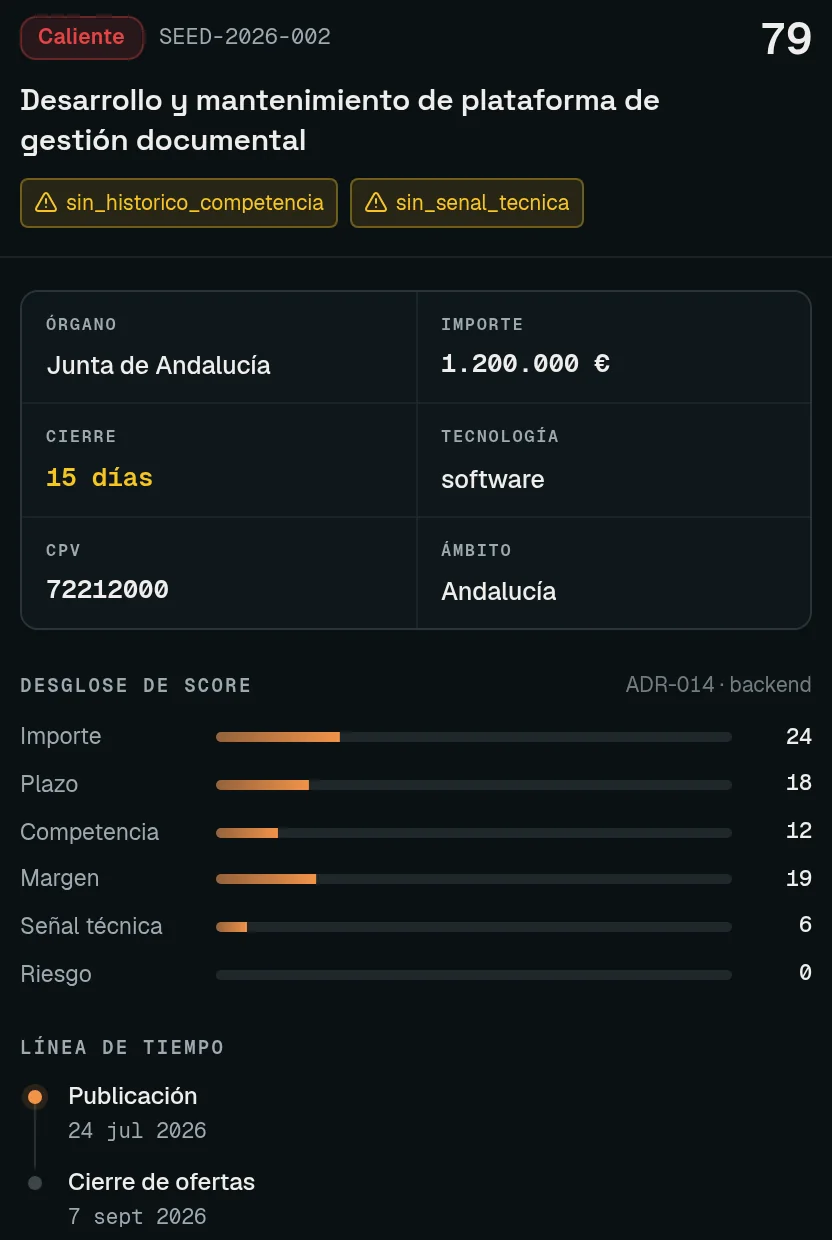
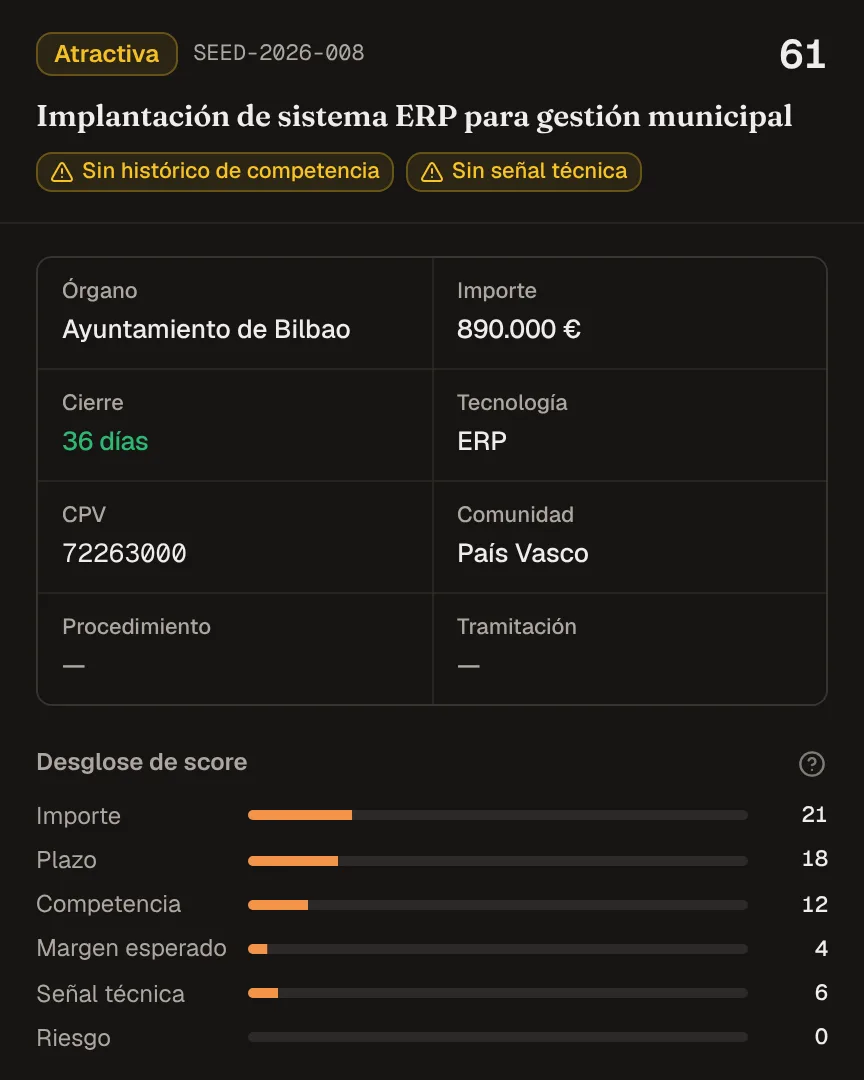
feat(portada): capturas del producto en claro y oscuro, regeneradas
- CapturaProducto sirve las variantes -claro por prefers-color-scheme; la
  portada no tiene selector de tema y sigue al sistema.
- Las cuatro capturas se regeneraron con el producto actual: las publicadas
  eran de una interfaz anterior (identificadores en crudo, «ADR-014 · backend»).
- capturas-landing.spec.ts: selecciona la fila por su celda de selección (el
  clic en el título ya no abre el inspector), recorta el inspector del Radar
  («Desglose de score» ya no vive en /detalle) y captura a densidad 2.
- api.d.ts regenerado por el docstring de /publico/cobertura.
- Cierra: La portada sirve una captura oscura a quien tiene el sistema en claro.

diff --git a/web/e2e/capturas-landing.spec.ts b/web/e2e/capturas-landing.spec.ts
@@ -40,23 +40,26 @@ import { SEED_LICITACION } from "./fixtures";
  * un visitante.
  *
  * Se capturan los dos recortes en **los dos temas**: `radar-hero.webp` y
- * `radar-hero-movil.webp` (oscuro, los que la portada importa hoy) y sus
- * variantes `-claro` (`radar-hero-claro.webp`, `radar-hero-movil-claro.webp`).
- * La portada las servirá con un `<source media="(prefers-color-scheme: dark)">`
- * para que quien tiene el sistema en claro no vea una consola oscura; el
- * `<picture>` de `CapturaProducto` se cambia en el mismo commit que añade los
- * `.webp` claros, porque un import a un fichero que no existe rompe el build.
+ * `radar-hero-movil.webp` (oscuro) y sus variantes `-claro`
+ * (`radar-hero-claro.webp`, `radar-hero-movil-claro.webp`).
+ * `CapturaProducto` las sirve con `<source media="(prefers-color-scheme: dark)">`
+ * para que quien tiene el sistema en claro no vea una consola oscura. Importa
+ * los cuatro ficheros: borrar uno rompe el build.
  *
  * El recorte estrecho no es la misma imagen reducida: una consola de escritorio
- * a 375 px deja el texto de la tabla por debajo de 2 px. Se captura el panel de
- * detalle, que es estrecho por naturaleza y cuenta la misma historia.
+ * a 375 px deja el texto de la tabla por debajo de 2 px. Se captura el cuerpo
+ * del inspector del Radar (score, banda y desglose), que es estrecho por
+ * naturaleza y cuenta la misma historia. Hasta el 2026-11-16 se tomaba de
+ * `/detalle` a 375 px esperando «Desglose de score», que ya no vive allí.
+ *
+ * Con `next dev` la captura saca la insignia de desarrollo de Next: se toma
+ * contra `npm run build && npm run start`.
  */
 
 const DESTINO = path.resolve(__dirname, "..", "src", "app", "(publico)", "_assets");
 
-/** Mismos anchos que `responsive.spec.ts`, para no inventar un tercer juego. */
+/** Mismo ancho que `responsive.spec.ts`, para no inventar otro. */
 const ESCRITORIO = { width: 1440, height: 900 };
-const MOVIL = { width: 375, height: 812 };
 
 /** Calidad alta pero con pérdida: son capturas de interfaz, no fotografía, y
  *  el peso viaja en el LCP de la portada. Los ficheros anteriores rondaban los
@@ -89,9 +92,29 @@ async function guardarWebp(png: Buffer, nombre: string): Promise<void> {
   await writeFile(path.join(DESTINO, nombre), webp);
 }
 
+/**
+ * Radar con el expediente del seed seleccionado y su inspector abierto.
+ *
+ * Se selecciona como en `responsive.spec.ts`: por la celda de selección de su
+ * fila (`[data-active]` solo lo emite `radar-fila.tsx`), no con un clic en el
+ * título, que no abre el inspector. Antes se cierra la franja de primer uso
+ * del ámbito, que no forma parte de lo que la portada enseña.
+ */
+async function abrirInspector(page: import("@playwright/test").Page): Promise<void> {
+  await page.goto("/radar");
+  await page.getByRole("button", { name: "Entendido, no volver a mostrar" }).click();
+  const fila = page.locator("[data-active]").filter({ hasText: SEED_LICITACION.tituloRadar }).first();
+  await fila.waitFor({ timeout: 20_000 });
+  await fila.locator('[data-slot="radar-fila-seleccion"]').click();
+  await page.getByText("Desglose de score").waitFor();
+}
+
 test.describe("Capturas de la landing", () => {
   test.skip(!process.env.CAPTURAS, "Herramienta, no test: se ejecuta con CAPTURAS=1");
   test.skip(({ browserName }) => browserName !== "chromium", "Una sola familia de capturas");
+  // La imagen ocupa hasta 1104 px CSS en la portada: a 1x se vería borrosa en
+  // una pantalla de densidad 2. `next/image` sirve después el ancho que toque.
+  test.use({ deviceScaleFactor: 2 });
 
   for (const tema of ["dark", "light"] as const) {
     const sufijo = tema === "light" ? "-claro" : "";
@@ -99,26 +122,31 @@ test.describe("Capturas de la landing", () => {
     test(`bandeja del Radar (${tema})`, async ({ page }) => {
       await page.emulateMedia({ colorScheme: tema });
       await page.setViewportSize(ESCRITORIO);
-      await page.goto("/radar");
-
-      // La fila del expediente con histórico: sin ella la bandeja podría estar
-      // aún cargando y la captura saldría con esqueletos.
-      await page.getByText(SEED_LICITACION.tituloRadar).first().waitFor();
-      // Abrir su panel de detalle, que es la mitad derecha de la composición.
-      await page.getByText(SEED_LICITACION.tituloRadar).first().click();
-      await page.getByText("Desglose de score").waitFor();
+      await abrirInspector(page);
 
       const png = await page.screenshot({ animations: "disabled" });
       await guardarWebp(png, `radar-hero${sufijo}.webp`);
     });
 
-    test(`recorte estrecho del detalle (${tema})`, async ({ page }) => {
+    test(`recorte estrecho del inspector (${tema})`, async ({ page }) => {
       await page.emulateMedia({ colorScheme: tema });
-      await page.setViewportSize(MOVIL);
-      await page.goto(`/detalle?lic=${SEED_LICITACION.radarId}`);
-      await page.getByText("Desglose de score").waitFor();
+      await page.setViewportSize(ESCRITORIO);
+      await abrirInspector(page);
 
-      const png = await page.screenshot({ animations: "disabled" });
+      // El inspector desde su cabecera (score, banda y título) hasta el final
+      // del desglose. Mide 432 px de ancho, así que no hace falta reducir una
+      // pantalla de escritorio. La cabecera queda fuera de la región con
+      // scroll, por eso se recorta sobre la columna y no sobre la región.
+      const columna = await page
+        .getByRole("region", { name: "Detalle de la señal" })
+        .locator("..")
+        .boundingBox();
+      const finDesglose = await page.getByText("Línea de tiempo").boundingBox();
+      if (!columna || !finDesglose) throw new Error("No se encontró el inspector del Radar");
+      const png = await page.screenshot({
+        animations: "disabled",
+        clip: { ...columna, height: finDesglose.y - columna.y - 8 },
+      });
       await guardarWebp(png, `radar-hero-movil${sufijo}.webp`);
     });
   }

diff --git a/web/src/app/(publico)/_components/landing-captura.tsx b/web/src/app/(publico)/_components/landing-captura.tsx
@@ -1,7 +1,9 @@
 import { getImageProps } from "next/image";
 import { CONTENIDO } from "../_content/landing";
 import capturaHero from "../_assets/radar-hero.webp";
+import capturaHeroClaro from "../_assets/radar-hero-claro.webp";
 import capturaHeroMovil from "../_assets/radar-hero-movil.webp";
+import capturaHeroMovilClaro from "../_assets/radar-hero-movil-claro.webp";
 
 /* Captura del producto, con art direction.
 
@@ -18,31 +20,55 @@ import capturaHeroMovil from "../_assets/radar-hero-movil.webp";
 
    Ya **no** lleva `priority`: desde que el hero enseña dato y no una foto, el
    LCP es texto y esta imagen está por debajo del fold. Marcarla como prioritaria
-   competiría con lo que sí hay que pintar primero. */
+   competiría con lo que sí hay que pintar primero.
+
+   Cada recorte va en los dos temas, elegidos por `prefers-color-scheme`, que es
+   lo que sigue la portada (`next-themes` con `defaultTheme="system"`, sin
+   selector propio): quien tiene el sistema en claro ya no ve una consola
+   oscura. shortcut: quien eligió tema a mano en la consola ve la portada en ese
+   tema y la captura en el de su sistema; pasarlo a la clase `dark` si la
+   portada llega a tener selector de tema. Las capturas las regenera
+   `e2e/capturas-landing.spec.ts`. */
 const SIZES_ANCHA = "(min-width: 1152px) 1104px, calc(100vw - 3rem)";
 const SIZES_ESTRECHA = "calc(100vw - 3rem)";
+const OSCURO = "(prefers-color-scheme: dark)";
+const ANCHA = "(min-width: 640px)";
 
 export function CapturaProducto() {
   const comun = { alt: CONTENIDO.capturaAlt };
+  const srcSet = (src: typeof capturaHero, sizes: string) =>
+    getImageProps({ ...comun, src, sizes }).props.srcSet;
   const {
-    props: { srcSet: ancha },
-  } = getImageProps({ ...comun, src: capturaHero, sizes: SIZES_ANCHA });
-  const {
-    props: { srcSet: estrecha, ...resto },
-  } = getImageProps({ ...comun, src: capturaHeroMovil, sizes: SIZES_ESTRECHA });
+    props: { srcSet: estrechaClara, ...resto },
+  } = getImageProps({ ...comun, src: capturaHeroMovilClaro, sizes: SIZES_ESTRECHA });
 
   return (
     <picture>
       {/* `sizes` va también en el `<source>`: sin él el navegador asume 100vw y
-          se descarga la variante de 3840 px para un hueco de 1104. */}
+          se descarga la variante de 3840 px para un hueco de 1104. Gana el
+          primer `<source>` que casa, así que van de más a menos específico. */}
       <source
-        media="(min-width: 640px)"
-        srcSet={ancha}
+        media={`${ANCHA} and ${OSCURO}`}
+        srcSet={srcSet(capturaHero, SIZES_ANCHA)}
         sizes={SIZES_ANCHA}
         width={capturaHero.width}
         height={capturaHero.height}
       />
-      <img {...resto} srcSet={estrecha} alt={CONTENIDO.capturaAlt} loading="lazy" className="h-auto w-full" />
+      <source
+        media={ANCHA}
+        srcSet={srcSet(capturaHeroClaro, SIZES_ANCHA)}
+        sizes={SIZES_ANCHA}
+        width={capturaHeroClaro.width}
+        height={capturaHeroClaro.height}
+      />
+      <source
+        media={OSCURO}
+        srcSet={srcSet(capturaHeroMovil, SIZES_ESTRECHA)}
+        sizes={SIZES_ESTRECHA}
+        width={capturaHeroMovil.width}
+        height={capturaHeroMovil.height}
+      />
+      <img {...resto} srcSet={estrechaClara} alt={CONTENIDO.capturaAlt} loading="lazy" className="h-auto w-full" />
     </picture>
   );
 }

diff --git a/docs/IMPROVEMENT_BACKLOG.md b/docs/IMPROVEMENT_BACKLOG.md
@@ -371,15 +371,6 @@ _Sin ítems abiertos._
   - Search Console verá una caída grande de URLs indexadas: es el objetivo, no un incidente.
 - **Riesgo:** medio — el cambio es de datos publicados, no de código.
 
-### [P2] La portada sirve una captura oscura a quien tiene el sistema en claro
-- **Estado actual (2026-11-08):** `código` — Ejecutar `npm run capturas:landing` con el stack sembrado, commitear las dos variantes `-claro` y servirlas con `<source media="(prefers-color-scheme: dark)">` en `CapturaProducto`.
-- **Área:** web/src/app/(publico)/page.tsx, web/e2e/capturas-landing.spec.ts
-- **Problema:** la superficie pública usa `defaultTheme="system"` y no tiene selector de tema, así que un visitante con el sistema en claro ve una página clara con una captura del producto en oscuro incrustada. Las dos imágenes de `_assets/` son las únicas que hay.
-- **Cómo empezar:** el spec ya genera las variantes `-claro` (`npm run capturas:landing`, con el stack sembrado). Falta ejecutarlo, commitear `radar-hero-claro.webp` y `radar-hero-movil-claro.webp` y dar a `CapturaProducto` los `<source media="(prefers-color-scheme: dark)">` con los oscuros en el mismo cambio.
-- **Acceptance criteria:** las dos variantes existen, se sirve una sola por visita (no dos descargas), y el spec de capturas las genera juntas.
-- **Files de partida:** [web/e2e/capturas-landing.spec.ts](../web/e2e/capturas-landing.spec.ts), [web/src/app/(publico)/page.tsx](../web/src/app/%28publico%29/page.tsx)
-- **Riesgo:** bajo.
-
 ### [P2] Dar de alta el check externo del latido del healthcheck (acción del propietario)
 - **Estado actual (2026-11-08):** `propietario` — El propietario crea el check externo (periodo 6 h, gracia 2 h), guarda su URL en el secret `HEALTHCHECK_HEARTBEAT_URL` y lanza `healthcheck.yml` para ver `latido_enviado`.
 - **Área:** healthchecks.io (o equivalente), GitHub (variables cifradas de Actions), Render

diff --git a/docs/UX_AUDIT.md b/docs/UX_AUDIT.md
@@ -362,13 +362,14 @@ en las tres páginas de evidencia, enlazadas desde el cuerpo y desde el pie.
   v158 ya está aplicada en producción (la cadena es lineal, así que v98 también).
   No hay cambio de código pendiente: falta comprobar que la cifra publicada bajó
   de los 417.182 del censo PSCP.
-- **La variante clara de las capturas.** Se sirve una sola imagen, oscura, a
-  quien tiene el sistema en claro. `e2e/capturas-landing.spec.ts` ya genera
-  también `radar-hero-claro.webp` y `radar-hero-movil-claro.webp`, pero
-  necesita el stack sembrado (Postgres + API + dev server): `cd web && npm run
-  capturas:landing`. Falta ejecutarlo, commitear los dos `.webp` y poner en
-  `CapturaProducto` los `<source media="(prefers-color-scheme: dark)">` con los
-  oscuros, en el mismo cambio (un import a un fichero inexistente rompe el build).
+- ~~**La variante clara de las capturas.**~~ ✅ **Resuelto el 2026-11-16**:
+  `CapturaProducto` sirve las cuatro capturas (ancha y estrecha, clara y
+  oscura) por `prefers-color-scheme`. Se regeneraron todas con el producto
+  actual: las publicadas eran de una interfaz anterior y enseñaban
+  identificadores en crudo y «ADR-014 · backend». El spec se tuvo que
+  actualizar (el clic en el título ya no abre el inspector, y «Desglose de
+  score» ya no vive en `/detalle`), y se toma contra `npm run build && npm run
+  start`, porque `next dev` pinta su insignia encima.
 - **Identidad publicada.** Razón social, NIF, domicilio y un buzón de contacto
   del dominio son variables de entorno que sólo el responsable puede rellenar.
 - **Dominio propio.** El sitio se sirve desde `*.vercel.app`.
